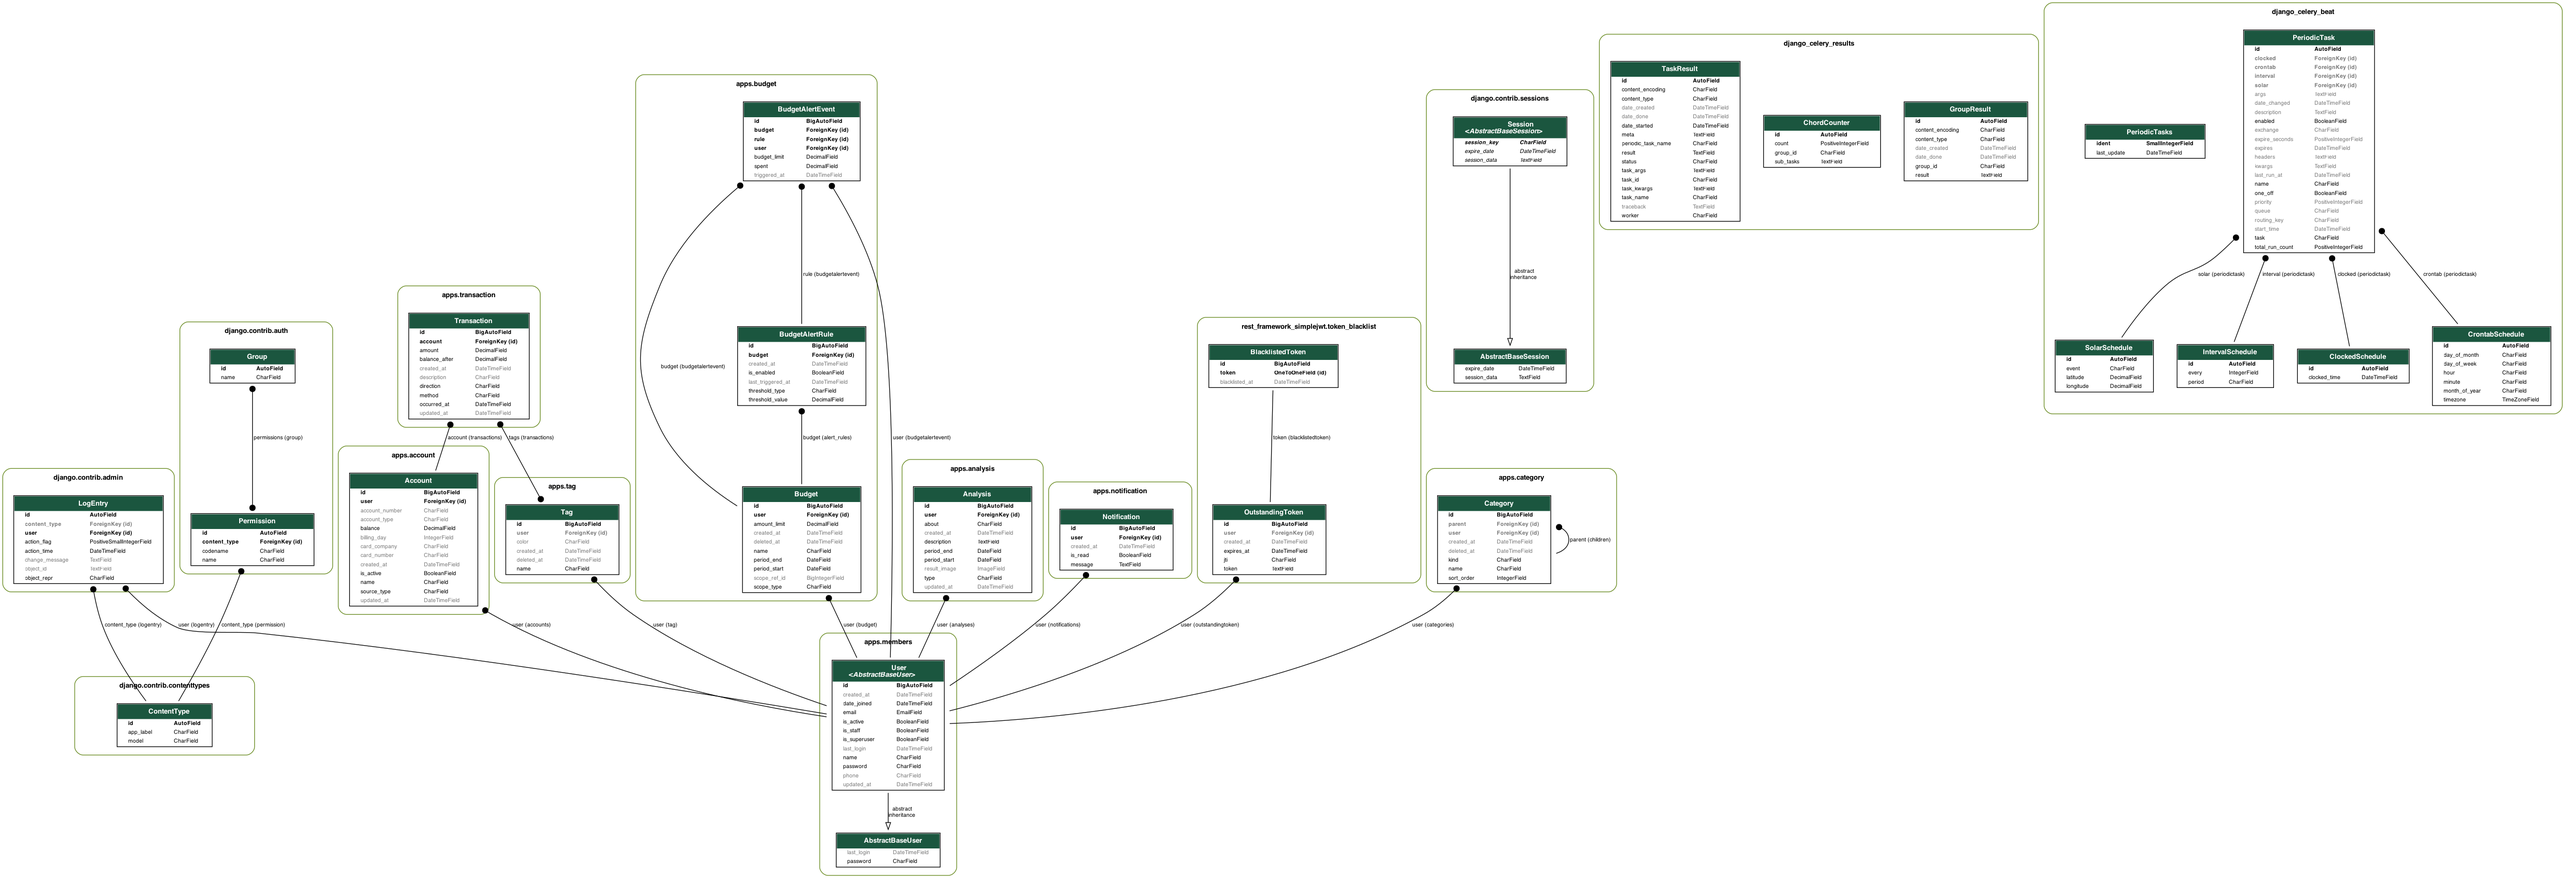
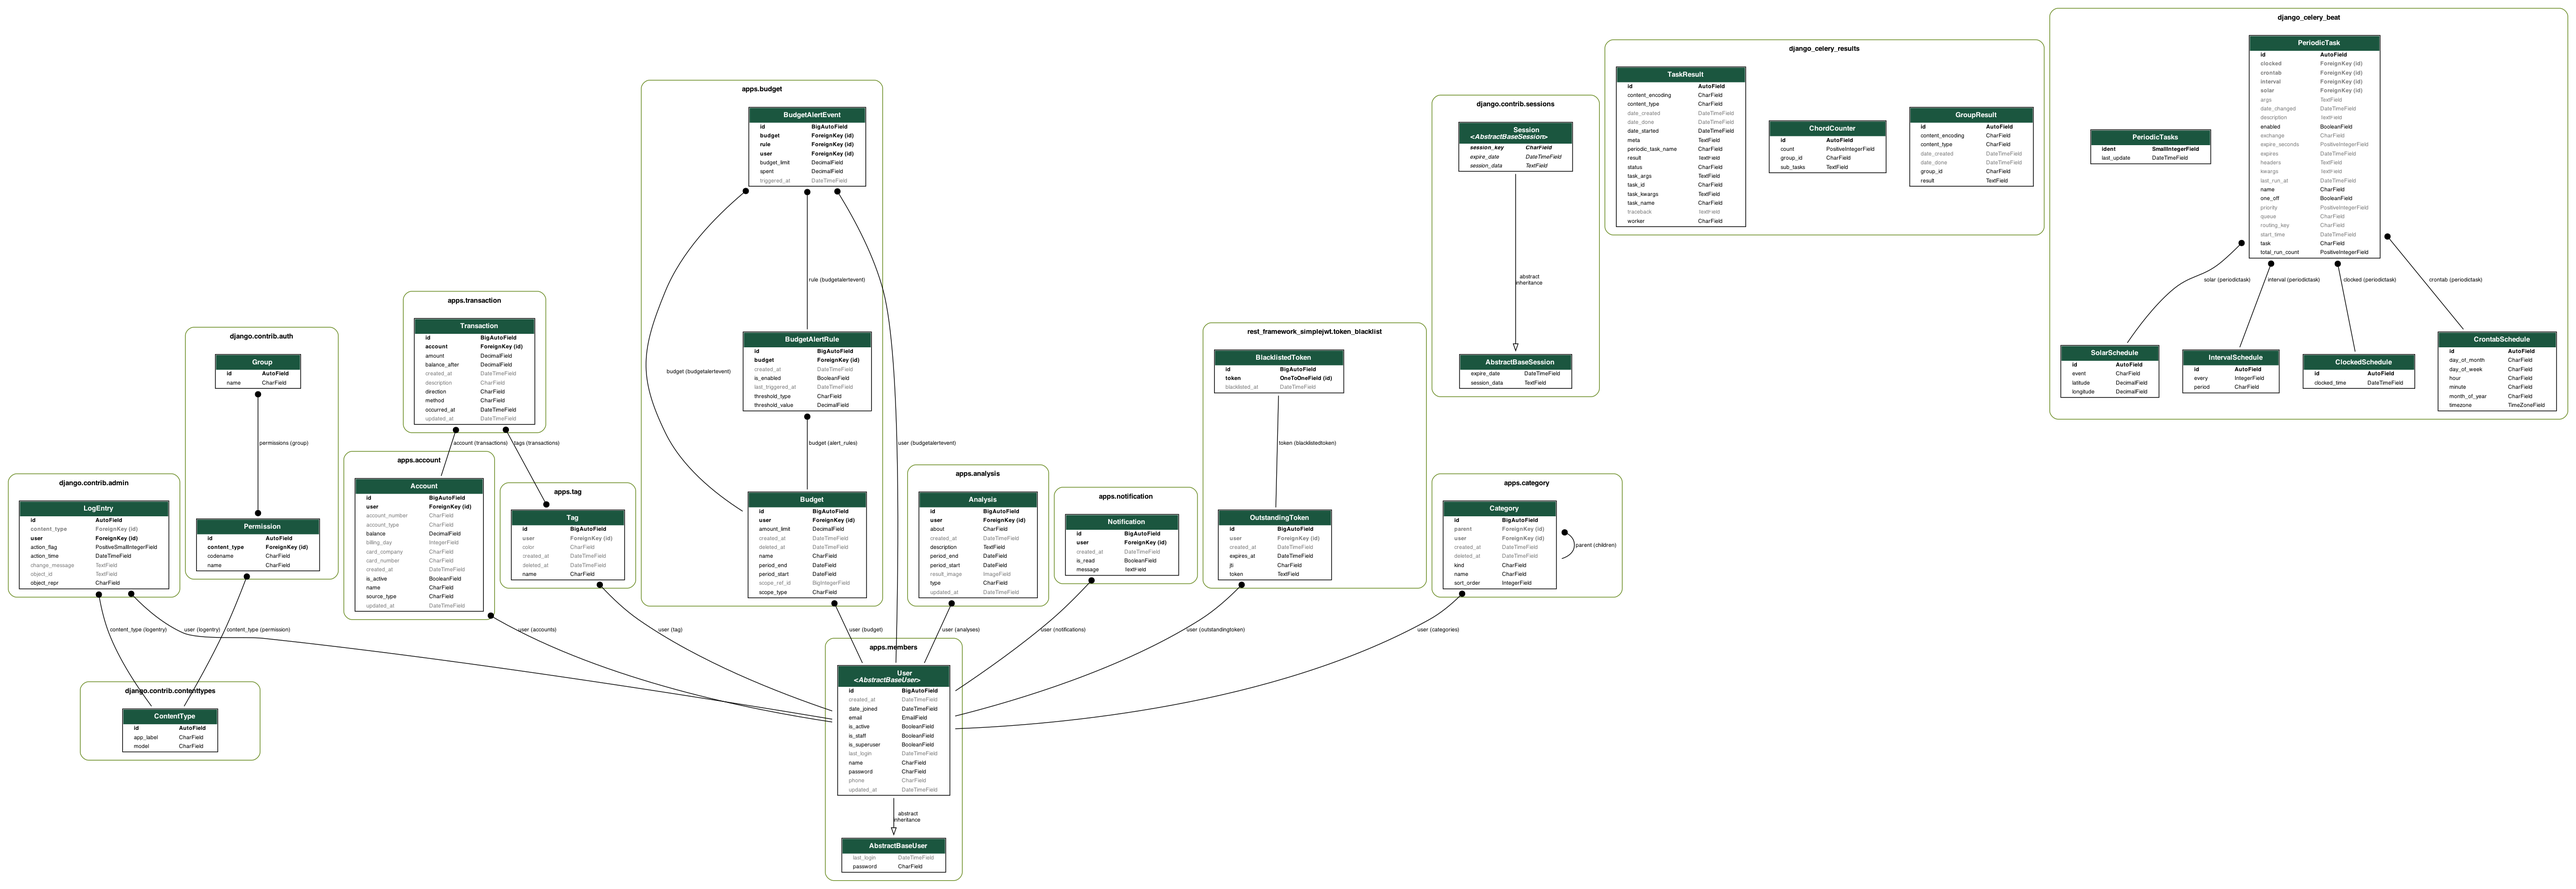
📝 docs : readme.md 수정 및 erd 자동생성 스크립트 추가

diff --git a/README.md b/README.md
@@ -100,6 +100,7 @@ uv run celery -A budget beat -l info
 
 필수 의존성:
 - Graphviz (예: macOS `brew install graphviz`, Ubuntu `apt-get install graphviz`)
+- 스크립트는 Django `graph_models --dot` 출력 후 `dot`으로 PNG를 생성합니다.
 
 ![ERD](docs/erd.png)
 
